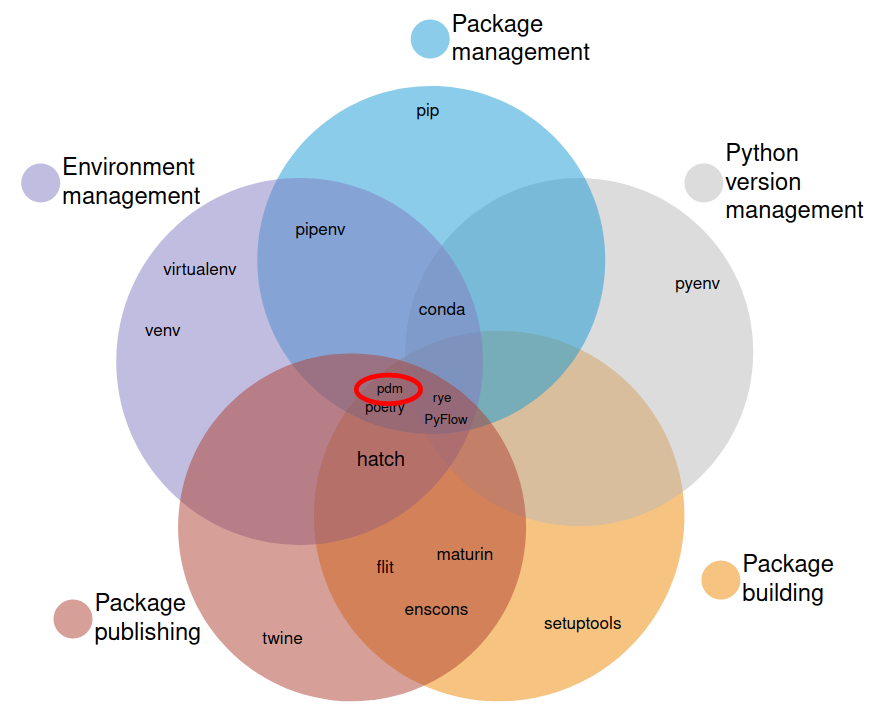
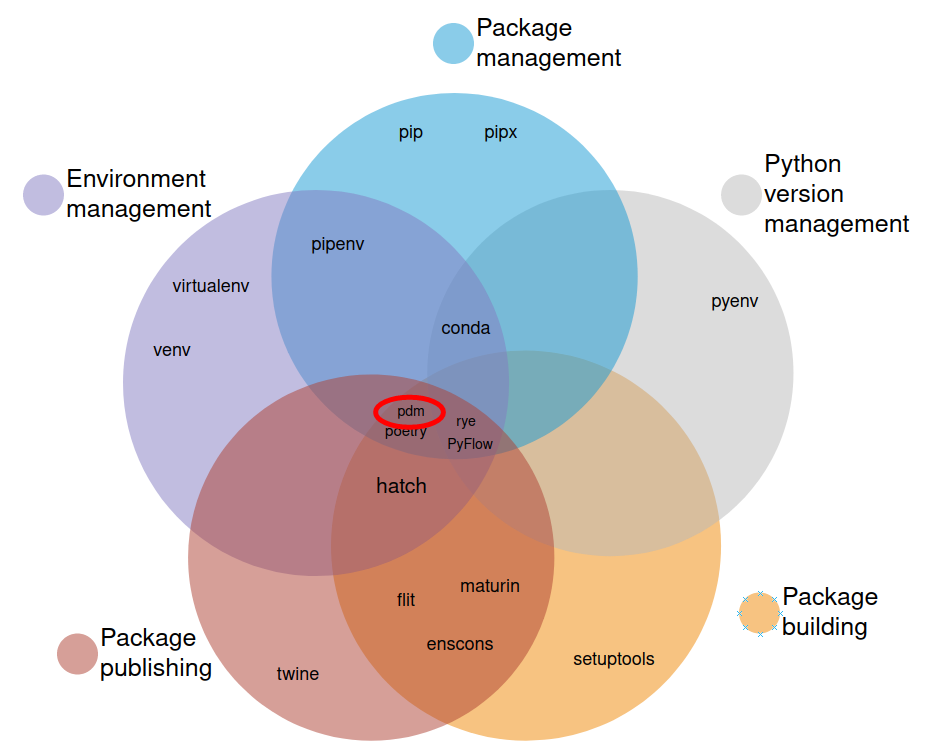
Update venn diagrams and add section on other tools

diff --git a/content/posts/python/packaging_tools.md b/content/posts/python/packaging_tools.md
@@ -462,3 +462,9 @@ rye publish
 | PEP 660 (editable installs)   | ✅     | ✅     | ✅     | ✅     |  ✅   |    
 | PEP 621 (project metadata)    | ✅     | ❌     | ✅     | ✅     |  ✅   |
 
+## Tools that do not fit the categories
+
+Some tools exist which don't fit into any of my categories. These are:
+- [pip-tools](https://pip-tools.readthedocs.io/en/latest/) which helps to keep the versions of your `pip`-based packages up-to-date.
+- [tox](https://tox.wiki/en/4.10.0/) which is mainly used for testing but also handles virtual environments.
+
